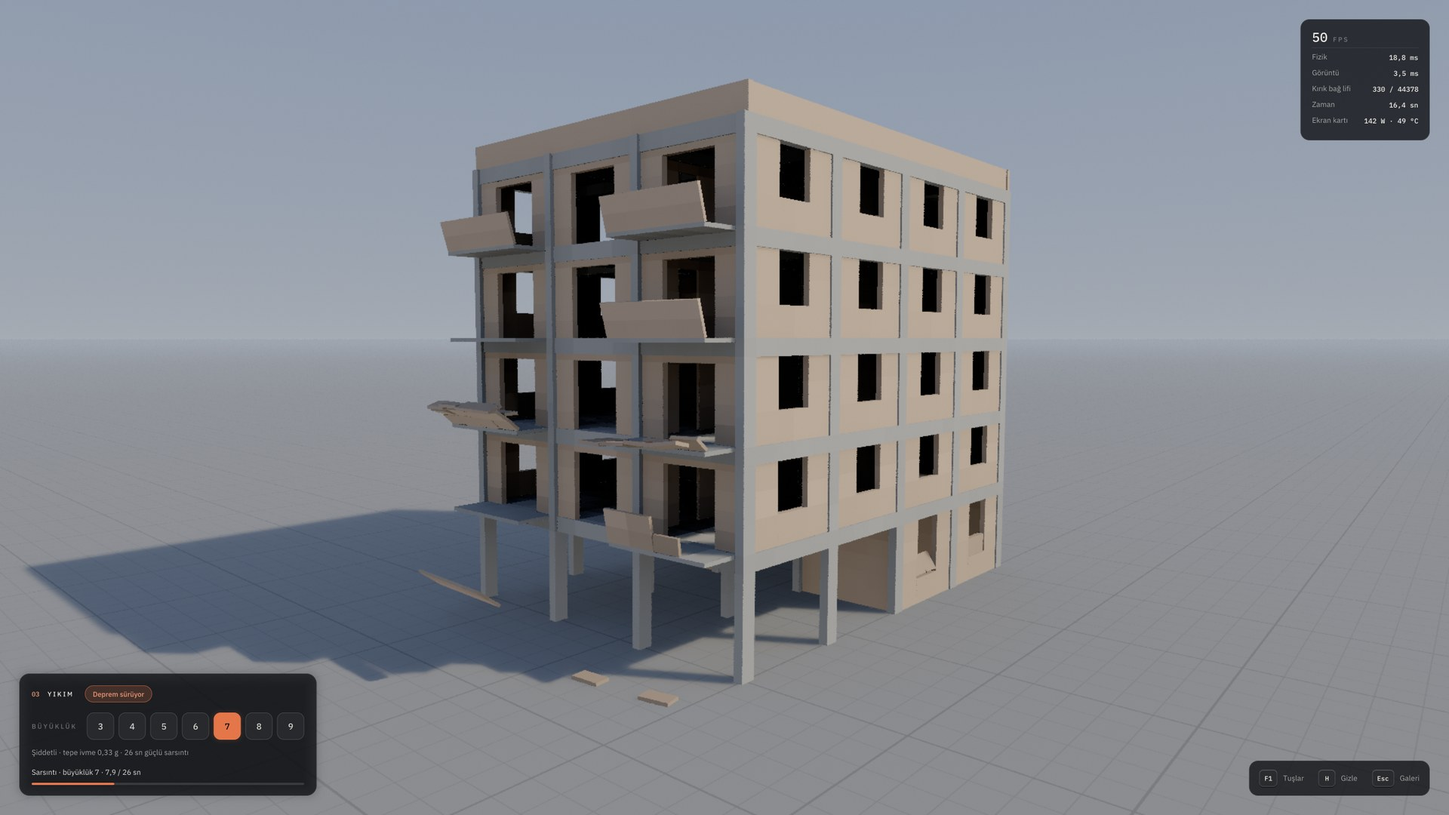
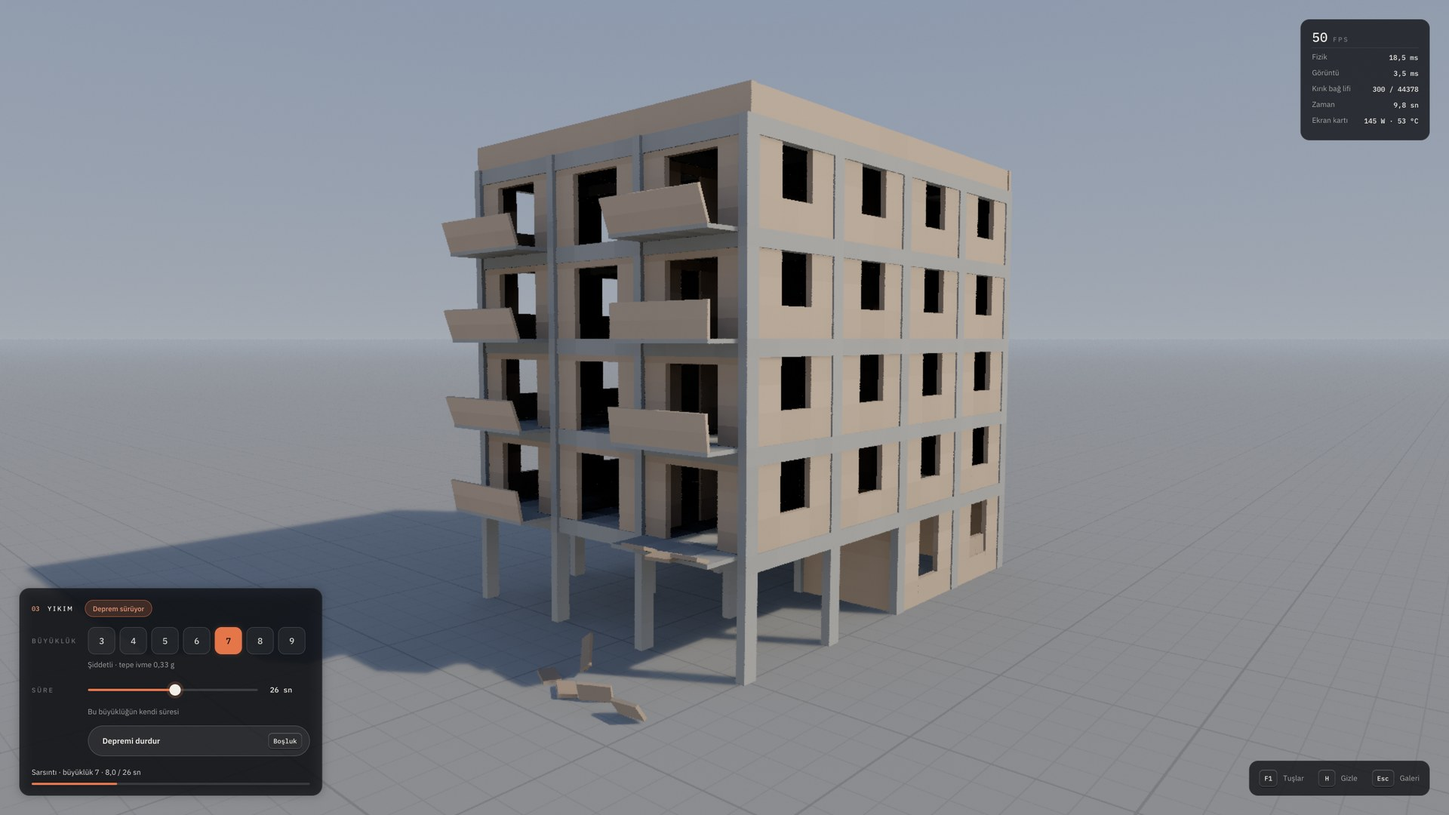
Belgeler: yikim topu, deprem suresi, panel denetimleri, galeri ayrintilari
Olcumler docs/yikim/DURUM.md (top boyu ve kolonlar, dongu testi, buyukluk 7 degismedi), sozlesme docs/MIMARI.md,
yeni gorseller (ayrintilar paneli, yeni panel, topun kose kolona carpmasi).

Claude-Session: https://claude.ai/code/session_01YE74r9qkYvqsLDasqyGsSV

diff --git a/README.md b/README.md
@@ -37,11 +37,15 @@ night. Scene 3 is a rigid-body and fracture solver of its own, drawn by a plain 
 The three scenes live in one program. It opens on a gallery; a scene loads behind a loading screen (its programs
 compile and its world is built on a worker thread, so the window stays alive) and then runs under an interface that is
 the same for all of them: who and what at the bottom left, timings at the top right, the way out at the bottom right,
-the keys on F1. Esc always leads back, and a scene that closes gives the GPU back entirely.
+the keys on F1. The panel at the bottom left takes the mouse: a scene can put rows of choices, sliders and buttons there
+(in Yıkım the magnitude, the length, start and stop). The gallery gives each scene a short description, and how it was
+made under **Ayrıntılar** (details). Esc always leads back, and a scene that closes gives the GPU back entirely.
 
-| The gallery | A scene under the shared interface |
+| The gallery | Details: how it was made |
 | --- | --- |
-| ![The gallery: the scenes in a numbered list, the selected one large on the right, its description and an open button](docs/images/app-gallery.jpg) | ![Scene 3 during a magnitude 7 earthquake: the scene's name and state, the magnitude selector, the shaking's progress, timings](docs/images/app-scene.jpg) |
+| ![The gallery: the scenes in a numbered list, the selected one large on the right, its description, the details and open buttons](docs/images/app-gallery.jpg) | ![The gallery's details panel: scene 3's solver, material, earthquakes, wrecking ball, determinism and picture](docs/images/app-details.jpg) |
+
+![Scene 3 during a magnitude 7 earthquake: the scene's name and state, clickable magnitudes, the length slider, the stop button, the shaking's progress, timings](docs/images/app-scene.jpg)
 
 The look is one family for everything, IBM Plex: Serif for names, Sans for words, Mono for numbers and keys. Dark glass
 panels over the pictures, and one accent colour per scene, taken from its light: warm gold, cold blue, safety orange.
@@ -91,8 +95,8 @@ fog when the camera is inside it is correct and flat.
 
 A five-storey reinforced concrete apartment block of the kind that fills Turkish towns: shops behind glass on a tall
 ground storey, brick infill, balconies, a flat roof with water tanks and solar collectors. Earthquakes from magnitude 3
-to 9 shake the ground under it, each made from a real strong-motion record, or the viewer blows its columns out with the
-mouse. The light is a plain sunny day on purpose; the effort went into the physics.
+to 9 shake the ground under it, each made from a real strong-motion record, or the viewer throws a wrecking ball at it
+with the mouse. The light is a plain sunny day on purpose; the effort went into the physics.
 
 ![Scene 3: the apartment block coming down in a magnitude 8 earthquake](docs/images/yikim.jpg)
 
@@ -105,8 +109,12 @@ mouse. The light is a plain sunny day on purpose; the effort went into the physi
 | ![Close up: bent reinforcing bars sticking out of the beams and the column above the missing corner column](docs/images/yikim-bars.jpg) | ![A magnitude 9: the ground storey failing, the block tilting](docs/images/yikim-m9.jpg) |
 
 It runs live at 1080p, about 50 frames per second on the RTX 4080 with the denoising filter on, physics and picture side
-by side on the GPU. Pick a magnitude with 3 to 9, start it with Space, click to blow pieces out, slow time down to a
-tenth.
+by side on the GPU. Pick the magnitude (3 to 9) and the length (the magnitude's own up to until stopped) on the panel
+with the mouse or with keys, start it; click to throw a wrecking ball, slow time down to a tenth.
+
+| A wrecking ball hits a corner column (4.1 t, 14 m/s) | The column's foot thrown out, the column hanging askew, its bars bare |
+| --- | --- |
+| ![A cast steel ball striking a ground-storey corner column, which breaks and leans](docs/images/yikim-top-1.jpg) | ![Two seconds later: the column's lower piece on the ground, the rest hanging askew from the beam](docs/images/yikim-top-2.jpg) |
 
 ## What scene 1 computes
 
@@ -194,7 +202,8 @@ holds together under real earthquake records.
 | **Contact** | One warp per pair of bodies: sample points against the other hull's planes, normal corrections averaged within the pair, then one friction impulse at the patch centre with static and dynamic budgets and anchors (as in PhysX), torsional friction and restitution. |
 | **Determinism** | Contact and interface sums in 2⁻⁴⁰ fixed point instead of floating-point atomics: the same earthquake brings the same building down the same way, every run. |
 | **Damping** | 5.3 % of critical, measured from free vibration: mass-proportional, relative to the ground, bonded bodies only, with capped accelerations so falling debris stays free. |
-| **Earthquakes** | By magnitude, 3 to 9: what the building feels from a quake of that size some 15 km away. Each is made from the waveform of a real strong-motion record (ESM and AFAD TADAS: 2023 Antakya, 1999 Yarımca and İzmit, 2020 Bayraklı), cut to the strong-motion length that size brings, played faster for the small ones, scaled to that size's peak ground acceleration and baseline-corrected so the ground ends where it started; then integrated twice to the ground's displacement. A game's scale, not a seismological one: magnitude alone does not fix the shaking. |
+| **Earthquakes** | By magnitude, 3 to 9: what the building feels from a quake of that size some 15 km away. Each is made from the waveform of a real strong-motion record (ESM and AFAD TADAS: 2023 Antakya, 1999 Yarımca and İzmit, 2020 Bayraklı), cut to the strong-motion length that size brings, played faster for the small ones, scaled to that size's peak ground acceleration and baseline-corrected so the ground ends where it started; then integrated twice to the ground's displacement. A game's scale, not a seismological one: magnitude alone does not fix the shaking. Longer, or until stopped, the strong part becomes a seamless loop: its end blended into its start, integrated around the loop with the mean of acceleration and velocity taken out (the ground does not drift), played under an envelope with the record's own rise and fall. Stopping fades the ground out over 1.5 s. |
+| **Wrecking ball** | A cast steel ball from the camera's side to the clicked point (4.1 t; Ctrl 11.4 t), 14 m/s, aimed for gravity. A body like the others, a convex hull of 256 tangent planes, shaded with the sphere's normal. The solver decides what breaks and what topples. |
 | **Picture** | OptiX: every piece an instance of its own hull, transforms written by the physics straight into the instance buffer, top level rebuilt every frame. Sun with soft shadows, sky, one bounce off the ground, a metre grid that rides the earthquake. Reinforcing bars are drawn from the fibres' state: across a crack while they hold, as bent stubs once they are gone. |
 | **Denoising** | Six samples a frame are grainy while things move. A light SVGF of our own: the lighting (beauty over albedo) is carried along each piece's own motion from frame to frame, checked by body, normal and distance, clamped to the new frame's neighbourhood when a shadow sweeps over it, then a-trous passes that stop at other bodies, normals, depth steps and lighting edges. 2.4 ms at 1080p. The OptiX AI denoiser is one key away (G): cleaner still, but it costs 9.7 ms and slows the physics that shares the GPU. |
 
@@ -253,13 +262,17 @@ Decisions worth reading:
   Rigid bodies make a cheaper filter work well: their motion is known exactly, so each surface point keeps its own
   history. Its first version left lit blotches where a falling building's shadow swept the ground; clamping the history
   to the new frame's neighbourhood removed them.
+- **A blow is a body, not magic.** A click used to take the piece out of the world (Özcan: the column "just vanishes").
+  Now it throws a ball. A 1.4 t ball moved a corner column by only 7 cm: in a model of rigid pieces a blow cannot crush
+  locally, it spreads over the whole 2.2 m piece, and the shear capacity of its two bonds eats the momentum before the
+  slip reaches breaking. A 4.1 t ball broke the column's foot out and toppled the rest; the solver was not touched.
 - **Measure the structure, not what stands on it.** "Roof drift" was averaged over the highest pieces, which were the
   brick parapet; a parapet thrown off read as the roof falling 9.7 m from a building still standing.
 
 **Not verified:** a 5 m cantilever of ten rigid segments is 2.9 times too soft at the default substep count (long rigid
 chains converge slowly; the building's measured period, 0.45 s, is close to the code formula's 0.54 s). The building
 is not checked against an engineering analysis; the solver's tests (free fall, stacking, slopes, energy, hinges,
-determinism, damping) are physical sanity checks, 24 of 26 passing, the two failures being the cantilever. Motion was
+determinism, damping, the earthquake loop) are physical sanity checks, 32 of 34 passing, the two failures being the cantilever. Motion was
 judged by Özcan from clips, not by the author's eye.
 
 ## Building
@@ -300,10 +313,11 @@ build\pc_graphics.exe --autotest            :: the whole application once throug
 | F12 | screenshot of the scene (`captures\<scene>_<date>`; scene 1 also writes a linear EXR) |
 | F5 | reload the scene's settings and recompile its OptiX programs (scenes 1 and 2) |
 | ↑ ↓, 1 to 3, Enter, mouse | choose and open in the gallery |
+| A | the scene's details in the gallery (how it was made) |
 
 | Scene 1 · Altın Saat | Scene 2 · Fener | Scene 3 · Yıkım |
 | --- | --- | --- |
-| Space still ↔ live · C next camera · ↑ ↓ exposure · ← → focus · R reset · P, V, N, D, G photons, haze, next-event estimation, denoiser, sun patches · 1 to 5 beauty, albedo, normal, caustics, cost | Space walk A ↔ B · B jump to the other view · P pause time · ← → time ∓1 s · ↑ ↓ exposure · 1 to 5 views · Tab first-person walk (WASD, mouse, Shift run, Space jump) | 3 to 9 magnitude · Space start or stop · T slow motion · P pause · left click blast (Ctrl: bigger) · R rebuild · right mouse look · WASD, E/Q fly · Shift faster · wheel zoom · B bars · G denoising |
+| Space still ↔ live · C next camera · ↑ ↓ exposure · ← → focus · R reset · P, V, N, D, G photons, haze, next-event estimation, denoiser, sun patches · 1 to 5 beauty, albedo, normal, caustics, cost | Space walk A ↔ B · B jump to the other view · P pause time · ← → time ∓1 s · ↑ ↓ exposure · 1 to 5 views · Tab first-person walk (WASD, mouse, Shift run, Space jump) | 3 to 9 magnitude · ← → length (at the end: until stopped) · Space start or stop (with the mouse on the panel too) · T slow motion · P pause · left click wrecking ball (Ctrl: heavy ball) · R rebuild · right mouse look · WASD, E/Q fly · Shift faster · wheel zoom · B bars · G denoising |
 
 The scenes' tools run without a window, from the same program:
 

diff --git a/docs/MIMARI.md b/docs/MIMARI.md
@@ -43,11 +43,11 @@ tools/        Python araçları: EXR istatistikleri, FLIP karşılaştırması, 
 
 | | |
 | --- | --- |
-| `info()` | Galerinin ve arayüzün bildiği her şey: kimlik (`--scene <id>`), numara, ad, alt başlık, açıklama, etiketler, galeri resmi, vurgu rengi, tuş grupları (F1 yardımı bunlardan çizilir), F5 desteği. |
+| `info()` | Galerinin ve arayüzün bildiği her şey: kimlik (`--scene <id>`), numara, ad, alt başlık, bir-iki cümlelik açıklama, galerideki "Ayrıntılar" (`details`: başlık + paragraf, nasıl yapıldığı), etiketler, galeri resmi, vurgu rengi, tuş grupları (F1 yardımı bunlardan çizilir), F5 desteği. |
 | `load(host, state)` | Adım adım yükleme. Her çağrı bir adım yapar, `state.label` bir sonraki adımı anlatır, `state.fraction` ilerlemedir. İşçi iş parçacığında çalışır: **OpenGL yok**, CUDA/OptiX serbest. Hata: `state.error`. |
-| `frame(host, input)` | Bir kare: girdi (bu karede basılan tuşlar, basılı tuşlar, fare, tekerlek, sahnenin ekrandaki yeri) → sahne ilerler ve kendi resmini çizer. |
+| `frame(host, input)` | Bir kare: girdi (bu karede basılan tuşlar, basılı tuşlar, fare, tekerlek, sahnenin ekrandaki yeri, panel denetimlerine yapılanlar `events`) → sahne ilerler ve kendi resmini çizer. |
 | `image(w, h)` | Karenin resmi: RGBA8, üst satır önce, ana bellekte (sahnenin kilitli belleği). Uygulama dokuya yükleyip ekrana sığdırır. |
-| `status(s)` | Arayüz şeridinin içeriği: durum etiketleri (`chips`), sağ üstteki ölçümler (`metrics`), bir seçici (Yıkım'ın büyüklükleri), bir ilerleme çubuğu. |
+| `status(s)` | Arayüz şeridinin içeriği: durum etiketleri (`chips`), sağ üstteki ölçümler (`metrics`), panelin denetimleri (`controls`), bir ilerleme çubuğu (ya da sonu olmayan, `progressEndless`). |
 | `screenshot(host)` | F12: sahnenin kendi resmi `captures/<id>_<tarih>` (sahne 1 EXR de yazar). |
 | `reload(host)` | F5 (isteğe bağlı): ayarlar ve programlar yeniden. |
 | `unload()` | Ekran kartı kaynaklarını bırakır. Uygulama ardından `cudaDeviceReset` yapar: bir sahnenin unuttuğu bellek bir sonrakine geçmez. |
@@ -56,7 +56,21 @@ tools/        Python araçları: EXR istatistikleri, FLIP karşılaştırması, 
 yolu, `--set` ezmeleri.
 
 **Uygulamanın tuşları** sahneye ulaşmaz: Esc (galeri; yardım açıkken yardımı kapatır), F1 (tuşlar), H (arayüzü gizle),
-F12 (ekran görüntüsü), F5 (yeniden yükle). Sahneler bunları kullanmamalı.
+F12 (ekran görüntüsü), F5 (yeniden yükle). Sahneler bunları kullanmamalı. Galeride A ayrıntıları açar.
+
+**Panel denetimleri (`app::Control`).** Bir sahne panelinde tıklanacak bir şey isterse onu her karede `status`'ta tarif
+eder; çizmez, fareye bakmaz:
+
+| Tür | Gösterir | Sahneye dönen olay (`ControlEvent`, `id` ile) |
+| --- | --- | --- |
+| `Choice` | yan yana seçenekler (`items`, seçili `active`) | `item`: tıklanan |
+| `Slider` | çubuk (`value` 0..1), çentik (`mark`: varsayılan), sağında değer (`text`) | `value`: sürüklenen yer, düğme basılıyken her kare; bırakınca `released` |
+| `Button` | düğme (`text`), aynı işi yapan tuş (`keys`), vurgulu (`strong`), kapalı (`enabled = false`) | tıklandı |
+
+Uygulama başlıkları tek sütunda hizalar, satırları aynı genişliğe getirir, altına `detail` satırını yazar; üstüne
+gelinince el imleci ve vurgu. Panellere (sağ üst ve sağ alt dahil) basılan fare sahneye geçmez: Yıkım'da düğmeye
+tıklamak top atmaz. Durumun sahibi sahnedir: çubuğu bırakılan yere oturtmak (yuvarlamak, çentiğe yapıştırmak) onun işi,
+panel bir sonraki karede sahnenin söylediğini çizer. Tıklama yerleri bir önceki karede çizilenden gelir.
 
 ## Yeni bir sahne eklemek
 
@@ -73,7 +87,8 @@ F12 (ekran görüntüsü), F5 (yeniden yükle). Sahneler bunları kullanmamalı.
 3. `src/app/registry.cpp`'ye bir satır (galeri sırası buradan), `CMakeLists.txt`'ye dosyalar.
 4. `scenes/<id>.cfg` (ayarlar), `assets/gallery/<id>.jpg` (16:9, en az 1920 piksel genişlik).
 5. Sına: `build\pc_graphics.exe --autotest` galeriyi ve her sahneyi kendiliğinden dolaşır, ekranları
-   `captures/arayuz/` altına yazar, kapanışta boş ekran kartı belleğini yazdırır (her turda aynı kalmalı).
+   `captures/arayuz/` altına yazar, kapanışta boş ekran kartı belleğini yazdırır (her turda aynı kalmalı). Betik
+   panel denetimlerine kimlikleriyle tıklayabilir (`app.cpp`, adım 11-12), konumu bilmeden.
 
 ## Tasarım dili
 
@@ -85,5 +100,9 @@ F12 (ekran görüntüsü), F5 (yeniden yükle). Sahneler bunları kullanmamalı.
 - **Cam paneller:** yarı saydam koyu dolgu, ince açık kenar, yumuşak gölge, 16-20 piksellik köşeler.
 - **Yerleşim 2560×1440 için çizilir, pencereye ölçeklenir** (en küçük ölçek 0,7). Sol üst köşe boş bırakılır: orada
   RivaTuner'ın kare hızı göstergesi durur.
-- **Hareket:** ekranlar 0,5-0,7 sn'de belirir; galeri seçimi kayarak geçer, resimler çapraz geçişle değişir; bildirimler
-  3 sn sonra söner.
+- **Hareket:** ekranlar 0,5-0,7 sn'de belirir; galeri seçimi kayarak geçer, resimler çapraz geçişle değişir; ayrıntılar
+  paneli resmin üstüne 0,3 sn'de iner, resmin kendi yazıları o sırada çekilir; bildirimler 3 sn sonra söner.
+- **Galeride iki ses:** resmin altında ne olduğu (kısa açıklama), "Ayrıntılar"da nasıl yapıldığı (teknik). Stil ya da
+  esin adı açıklamada değil, gerekirse ayrıntılarda.
+- **Yazı atlası:** IBM Plex'ten ASCII, Latin-1, Latin Genişletilmiş-A (Türkçe), tireler ve tırnaklar, oklar, eksi ve ∞
+  pişirilir (`src/ui/ui.cpp`, `kRanges`). Başka bir simge önce oraya eklenir; yoksa ekranda "?" çıkar.

diff --git a/docs/DURUM.md b/docs/DURUM.md
@@ -4,6 +4,20 @@
 > `docs/altinsaat/`, `docs/fener/`, `docs/yikim/` (PLAN.md ve DURUM.md).
 
 ## Şu an
+- **2026-10-02 (gündüz) · Revizeler.** Özcan: *"Gayet güzel olmuş. Küçük revizeler yapalım. Bu sahnelerin açıklama
+  metinlerini şu tarzı bu tarzı demek yerine kısaca özetle. Bir de ayrıntılar diye tıklayınca açılan bir alan yap. Orada
+  teknik detaylardan bahset. [...] Yıkımda depremlerin süresi varsayılan şuanki gibi olsun ama biz değiştirebilelim.
+  Sonsuza kadar da sürdürebilelim. Durduruna kadar yani. Deprem büyüklüklerine mouse ile tıklanabilsin. Süresi kaydırma
+  çubuğu şeklinde ayarlanabilsin. Bir de mouse ile binaya tıklayınca kolon pıt diye yok oluyor ya. Gerçek bir darbe gibi
+  hissettirsin. [...] Biri vurmuş gibi kırılıp devrilsin."*
+  - **Galeri:** açıklamalar bir-iki cümlelik özet (stil adları kalktı); **Ayrıntılar** (düğme ya da A) resmin üstünde
+    "nasıl yapıldı" panelini açar: sahne başına altı başlıkta teknik özet, iki sütunda, yükseklikçe dengeli.
+  - **Sahne paneli artık tıklanır:** sözleşmede `Control` (seçenek sırası, kaydırma çubuğu, düğme). Uygulama çizer, fareyi
+    alır (üstünde el imleci; panele tıklama sahneye geçmez), olanı bir sonraki karede sahneye `events` olarak verir; durum
+    sahnede kalır. Ayrıntı `docs/MIMARI.md`.
+  - **Yıkım:** büyüklükler tıklanır; **süre çubuğu** (çentik: büyüklüğün kendi süresi, varsayılan; uç: ∞ durdurana kadar;
+    ← → ile de); **Depremi başlat / durdur** düğmesi; durdurunca zemin 1,5 sn'de diner (eskiden bir anda donuyordu: sarsıntı).
+    Tıklama artık **yıkım topu** atar (patlatma kalktı). Ayrıntı ve ölçümler `docs/yikim/DURUM.md`.
 - **2026-10-02 · Üç sahne tek uygulamada (gece, Özcan uyurken otonom).** Özcan'ın istekleri, birebir:
   1. *"Yıkım simülasyonunda fare ve klavye hareketleri ters, onları düz yap yani sağa-sağa, sol-sola gitsin."*
   2. *"Yıkım için Türkiyedeki depremleri kaldır, onun yerine onlardan ilham alarak 3 şiddetinde 4 5 6 7 8 9 şeklinde
@@ -45,7 +59,8 @@
 | Sahne 3 | 48-54 fps (deprem sırasında da) |
 | Sahne kapandıktan sonra boş ekran kartı belleği | 14 869 / 14 869 / 14 860 MB (üç sahne, iki tam tur: sızıntı yok) |
 | Taşımadan ve birleştirmeden sonra | üç sahnenin komut satırı kareleri önceki koda göre **bit bit aynı** (640×360, sabit tohum: fark 0) |
-| Testler | Yıkım fizik 24/26 (bilinen iki: konsol), kontrol 4/4, sahne 1 spektral öz-sınama OK |
+| Testler | Yıkım fizik 24/26 (bilinen iki: konsol), kontrol 4/4, deprem döngüsü 4/4 (10-02 gündüz), sahne 1 spektral öz-sınama OK |
+| Revizeden sonra (10-02 gündüz) | Sahne 3 55 fps, sonsuz depremde 49, büyüklük 7'de 50; sahne 1 ve 2 değişmedi; kapanışta boş bellek yine sabit |
 
 ## Öğrenilenler (ölçülerek)
 - **Taşıma sırasında davranışı kilitle:** üç sahneden sabit ayarla kareler, önce kendileriyle tekrar edilebilirliği
@@ -55,11 +70,14 @@
   sahnelerin kendi bırakmaları (düzen); ölçü kapanıştaki boş bellek.
 - **Uzun yükleme ana iş parçacığında pencereyi "yanıt vermiyor"a düşürür:** sahne 1'in derlemesi önbellek boşken 42 sn
   (dosya yolu değişince OptiX önbelleği ıskaladı). Yükleme işçi iş parçacığında; sahneler yüklemede OpenGL kullanmıyor.
+- **Bir yazı tipinde olan harf atlasta olmayabilir:** "∞" ekranda "?" çıktı; IBM Plex'te var, atlasa pişirilen aralıklarda
+  yoktu (eksi işaretiyle birlikte eklendi). Yeni bir simge kullanmadan önce atlas aralıklarına bak (`src/ui/ui.cpp`).
 - **Arayüz ekranlarını görmeden tasarlamak kör uçuştur:** `--autotest` bileşik ekranı (`glReadPixels`) PNG'ye yazıyor;
   ilk turda dört kusur buradan yakalandı (arka plan karartmasında dikey dikiş, önceki sahnenin bildirimi yükleme
   ekranında, Türkçe büyük harfte "â" ve İngilizce adda "İ").
 
 ## Bilinen sınırlar / doğrulanmadı
-- Fare ile galeri (üzerine gelme, tıklama, "Sahneyi aç" düğmesi) ve sahnelerde fareyle bakış otomatik testte sınanmadı
-  (betik yalnız tuş basıyor); kod yolları sahnelerin eski pencerelerindekinin aynısı.
+- Fare otomatik testte sanal: betik imleci koyar ve tıklar (galeri seçimi, iki düğme, Yıkım'da bakış, top, büyüklük,
+  süre çubuğu, başlat/durdur). Gerçek farenin sürüklemesi (çubuğu tutup kaydırmak) ve el imleci gözle denenmedi;
+  Fener'in oyuncu kipinde fareyle bakış hiç sınanmadı.
 - 1440'tan farklı ekranlarda yerleşim yalnız ölçekle uyarlanıyor (1080p ve 4K gözle denenmedi).

diff --git a/docs/yikim/DURUM.md b/docs/yikim/DURUM.md
@@ -3,6 +3,43 @@
 > Tek kaynak durum panosu. Plan ve Özcan'ın sözleri `docs/yikim/PLAN.md`'de.
 
 ## Şu an
+- **2026-10-02 (gündüz) · Yıkım topu, deprem süresi, tıklanan panel.** Özcan: *"Yıkımda depremlerin süresi varsayılan
+  şuanki gibi olsun ama biz değiştirebilelim. Sonsuza kadar da sürdürebilelim. Durduruna kadar yani. Deprem
+  büyüklüklerine mouse ile tıklanabilsin. Süresi kaydırma çubuğu şeklinde ayarlanabilsin. Bir de mouse ile binaya
+  tıklayınca kolon pıt diye yok oluyor ya. Gerçek bir darbe gibi hissettirsin. Ondan pıt diye yok olmasın. Biri vurmuş
+  gibi kırılıp devrilsin. Daha mantıklı olur."*
+  - **Yıkım topu** (`YikimApp::strike`): tıklanan noktaya kameranın yanından döküm çelik bir top gelir; noktanın 6 m
+    önünde belirir, 14 m/s ile varır (yerçekiminin yolda alacağı kadar yukarı nişanlı: tam noktaya düşer). Top öteki
+    parçalar gibi bir cisim (`polySphere`: 256 teğet düzlemle kırpılmış küp; görüntüde kürenin normaliyle düz gölgelenir):
+    neyin kırılıp devrileceğine çözücü karar verir. Kurulurken toplar zeminin 1000 m altında donuk bekler
+    (`parkBody`), atılınca kendi kütleleriyle döner (`launchBody`); 6 normal + 3 ağır, en eskisi yeniden atılır.
+    Patlatma (cismi kaldırma) canlı sahneden kalktı; `kolon` senaryosu komut satırında duruyor.
+  - **Ölçüldü** (`--clip darbe`, köşe kolon (0,0), zemin kat kolonunun ortasının 0,5 m altı):
+
+    | Top | Kolon | Sonuç |
+    | --- | --- | --- |
+    | 0,35 m · 1,4 t | köşe | kolon 7-9 cm kaydı, kırılmadı, top sekip cephe boyunca yuvarlandı |
+    | **0,5 m · 4,1 t** (sol tık) | köşe | ayak parçası 2,1 m fırladı (8,2 m/s), orta parça eğilip asılı kaldı, donatı filizleri; bina ayakta |
+    | 0,5 m · 4,1 t | kenar (1,0) | ayak 0,83 m, orta parça 0,38 m: kırıldı, eğik |
+    | **0,7 m · 11,4 t** (Ctrl) | iç (1,1) | iki alt parça ~7 m savruldu (en hızlı parça 12,9 m/s; top 14 m/s), top binanın altından geçti; bina ayakta (çatı 1 mm) |
+
+    1,4 t'luk top neden yetmedi: katı parçalı modelde darbe yerel ezme yapamaz, bütün 2,2 m'lik parçaya dağılır; iki
+    arayüzün kayma kapasitesi (~930 kN) topun momentumunu ~0,02 sn'de yer, kayma 8 cm kopma eşiğine varmadan biter.
+    Gerçekte çelik topun kısa temas süresi yerel ezme yapardı; burada yetecek enerji kütleyle verildi.
+  - **Deprem süresi** (`QuakePlay`, `quakePlay`): kendi süresinde ve daha kısada kayıt o uzunlukta kesilir (kendi
+    süresinde ölçülen kaydın aynısı: büyüklük 7 yeniden koşuldu, kırık lif 3.024, öteleme %0,66, değişmedi). Daha uzun
+    ya da **durdurana kadar**: kaydın güçlü kısmı **dikişsiz döngü** olur (sonu başına eşit güçle karışır; döngü
+    boyunca ivmenin ve hızın ortalaması çıkarılarak iki kez integre edilir, böylece hız ve yer değiştirme kendi
+    üstüne kapanır, zemin kaymaz), kaydın kendi yükseliş ve sönüşüyle bir zarfın altında oynar. **Durdurmak** zemini
+    1,5 sn'de dindirir (eskiden bir anda donuyordu: hızın tek adımda sıfırlanması bir sarsıntıdır).
+    Test `--test dongu` (4/4): dikişte yer değiştirme, hız ve ivme adımı döngünün içindeki en büyük adımın en çok
+    0,50 / 0,45 / 0,33'ü; zeminin en uzak gittiği kendi kaydınınkinin 0,75-1,08 katı (büyüklük 9: 1,51 m, kaydı 1,45 m).
+  - **Panel:** büyüklükler tıklanır; **süre çubuğu** 2-180 sn (log), çentik büyüklüğün kendi süresi (yakınına
+    bırakınca ona yapışır), en sağ ∞; **← →** yuvarlak sürelerden geçer; **Depremi başlat / durdur** düğmesi (Boşluk).
+    Süre bir sonraki depremde geçerli (sürerken değişirse panel söyler). Sanal fareyle `--autotest`: büyüklük 7'ye
+    tıkla, çubuğu ∞'a çek, başlat (49 fps), durdur (düğme "Sarsıntı diniyor"), çubuğu çentiğe bırak (26 sn).
+  - Testler 28/30 (bilinen iki: konsol) + döngü 4/4. Bekleyen toplar fiziği değiştirmiyor: büyüklük 7 aynı sonucu verdi
+    (kırık lif 3.024, öteleme %0,66); fizik süresi topsuz 14,2-15,3 ms, toplu 14,8-15,3 ms (sıra değiştirilerek, gürültü içinde).
 - **2026-10-02 · Kamera yönleri düzeltildi, depremler büyüklükle (3-9), sahne tek uygulamada.** Özcan (gece, otonom
   çalışma isteği): *"Yıkım simülasyonunda fare ve klavye hareketleri ters, onları düz yap yani sağa-sağa, sol-sola
   gitsin."* ve *"Yıkım için Türkiyedeki depremleri kaldır, onun yerine onlardan ilham alarak 3 şiddetinde 4 5 6 7 8 9

diff --git a/GOSTERI.md b/GOSTERI.md
@@ -5,11 +5,12 @@
 solda üç sahne, sağda seçilenin resmi ve açıklaması.
 
 - **↑ / ↓** (ya da **1-3**, ya da fare) seç, **Enter** (ya da **Sahneyi aç** düğmesi) aç.
+- **A** (ya da **Ayrıntılar** düğmesi): resmin üstünde sahnenin nasıl yapıldığı, teknik başlıklarla; **Esc** kapatır.
 - Açılan sahne birkaç saniye yükleme ekranında hazırlanır (sahne 1'in programları ilk açılışta daha uzun derlenir).
 - Her yerde: **Esc** geri (yardım → sahne → galeri → çıkış) · **F1** o sahnenin tuşları · **H** arayüzü gizle ·
   **F12** ekran görüntüsü (`captures/`) · **F5** ayarları ve programları yeniden yükle (sahne 1 ve 2).
-- Sahne üstündeki arayüz: sol altta sahnenin adı ve durumu (ve varsa seçici, ilerleme çubuğu), sağ üstte hız ve
-  süreler, sağ altta tuş ipuçları.
+- Sahne üstündeki arayüz: sol altta sahnenin adı ve durumu (ve varsa fareyle kullanılan denetimler: Yıkım'da
+  büyüklük, süre çubuğu, başlat / durdur; ilerleme çubuğu), sağ üstte hız ve süreler, sağ altta tuş ipuçları.
 
 ## 01 · Altın Saat — cam ve taş, tayfına ayrılan güneş
 Karanlık odaya 5 yarıktan giren güneş, huzmelere asılı 14 kristal prizma, betona saçılan tayflar. **Durağan** başlar:
@@ -48,8 +49,10 @@ Açılırken bina iki saniye görünmeden kendi ağırlığıyla oturur. Odak fi
 
 | Tuş | Ne yapar |
 |---|---|
-| **3-9** | depremin büyüklüğü (sol altta seçili olan, tepe ivmesi ve süresiyle); **Boşluk** başlat / durdur |
-| **sol tık** | tıkladığın yeri patlat (yakındaki parçalar yok olur, çevresi savrulur); **Ctrl + sol tık** büyük patlama |
+| **3-9** | depremin büyüklüğü (sol alttaki panelde fareyle de tıklanır) |
+| **← / →** | süre: kısalt / uzat. Panelde kaydırma çubuğu; çentik büyüklüğün kendi süresi (varsayılan), en sağ **∞**: durdurana kadar |
+| **Boşluk** | depremi başlat / durdur (paneldeki düğme de); durdurunca zemin 1,5 sn'de diner |
+| **sol tık** | tıkladığın yere bir **yıkım topu** gelir (döküm çelik, 4,1 ton); **Ctrl + sol tık** ağır top (11,4 ton). Kırılıp devrilmeye fizik karar verir |
 | **sağ tık + fare** | bak · **WASD** uç · **E / Q** yukarı / aşağı · **Shift** hızlı · **tekerlek** yakınlaş |
 | **T** | ağır çekim (×1, ×0,25, ×0,1) · **P** zamanı durdur · **R** binayı baştan kur |
 | **B** | donatı demirlerini göster / gizle · **G** gürültü giderici (hızlı süzgeç → yapay zekâ → ham) |
@@ -62,6 +65,7 @@ Açılırken bina iki saniye görünmeden kendi ağırlığıyla oturur. Odak fi
 | 8 | yumuşak kat göçmesi: zemin kat gider, bina yan yatıp çöker |
 | 9 | daha uzun ve sert sarsıntı; en güçlü kısım daha geç gelir, sonunda bina tamamen çöker |
 
-**Dene:** 6 ile 8'i art arda (**R** ile baştan kurup) karşılaştır; zemin kat kolonlarını tek tek patlat; çöküşü **T** ile
-ağır çekimde izle, kırık kolon uçlarına uçup demirlere yakından bak.
+**Dene:** 6 ile 8'i art arda (**R** ile baştan kurup) karşılaştır; 7'yi **∞** ile başlatıp uzun sarsıntıda hasarın nasıl
+biriktiğini izle; zemin kat kolonlarına top at (ölçüldü: köşe ve kenar kolon normal topla kırıldı, ağır top içteki bir
+kolonun iki alt parçasını savurdu); çöküşü **T** ile ağır çekimde izle, kırık kolon uçlarına uçup demirlere yakından bak.
 Ayarlar `scenes/yikim.cfg` (bina, malzemeler, çözücü, kamera, güneş).
